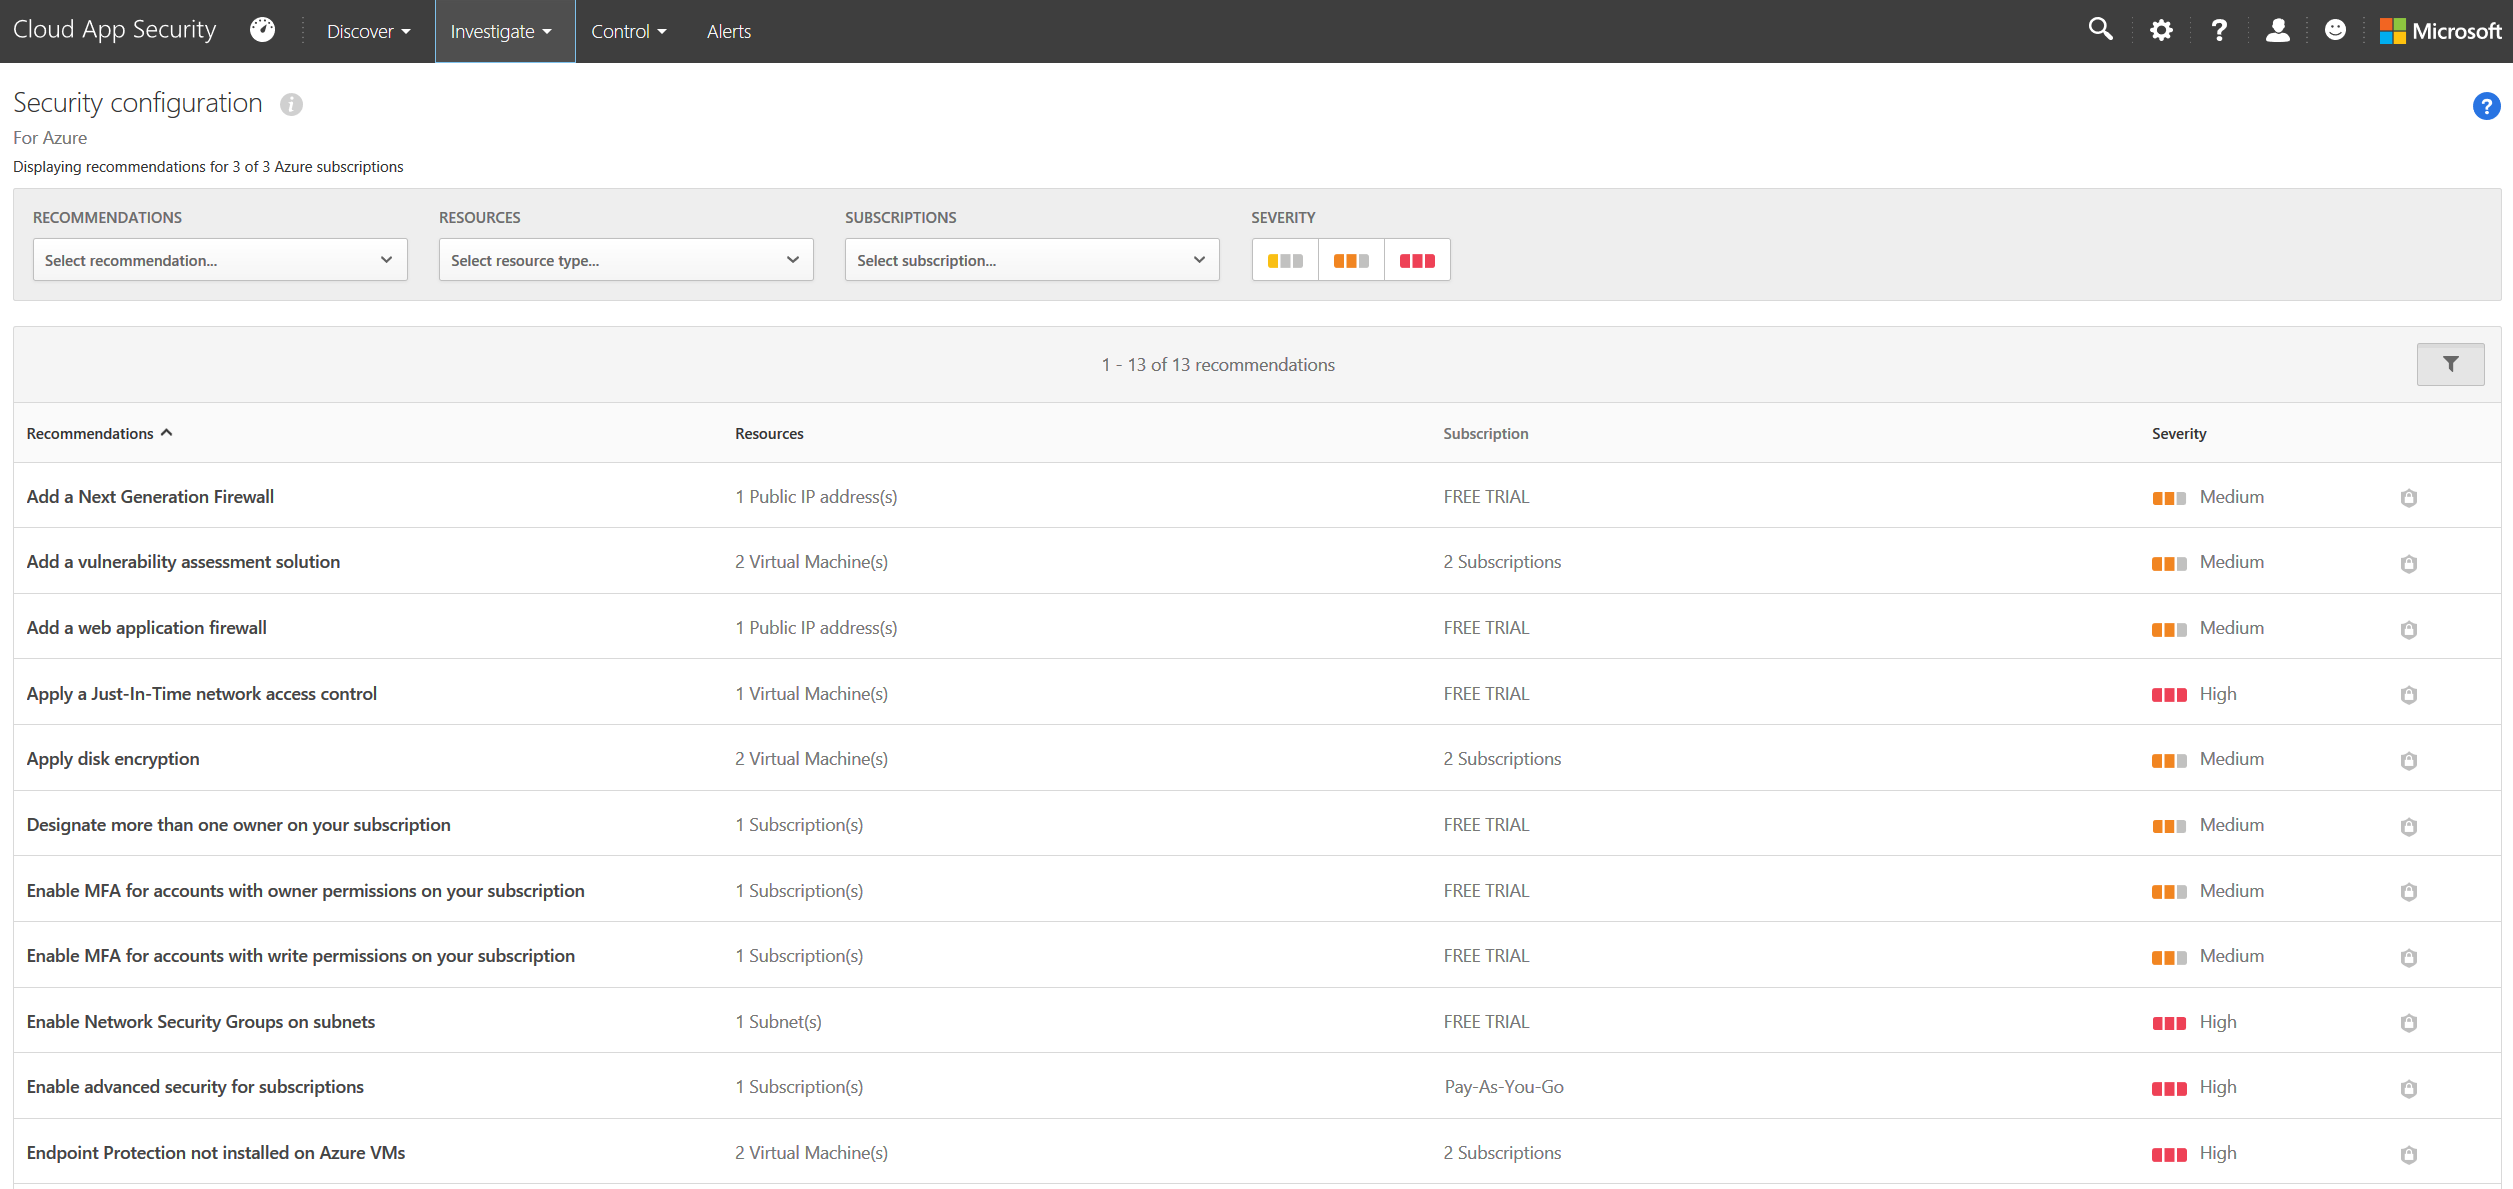
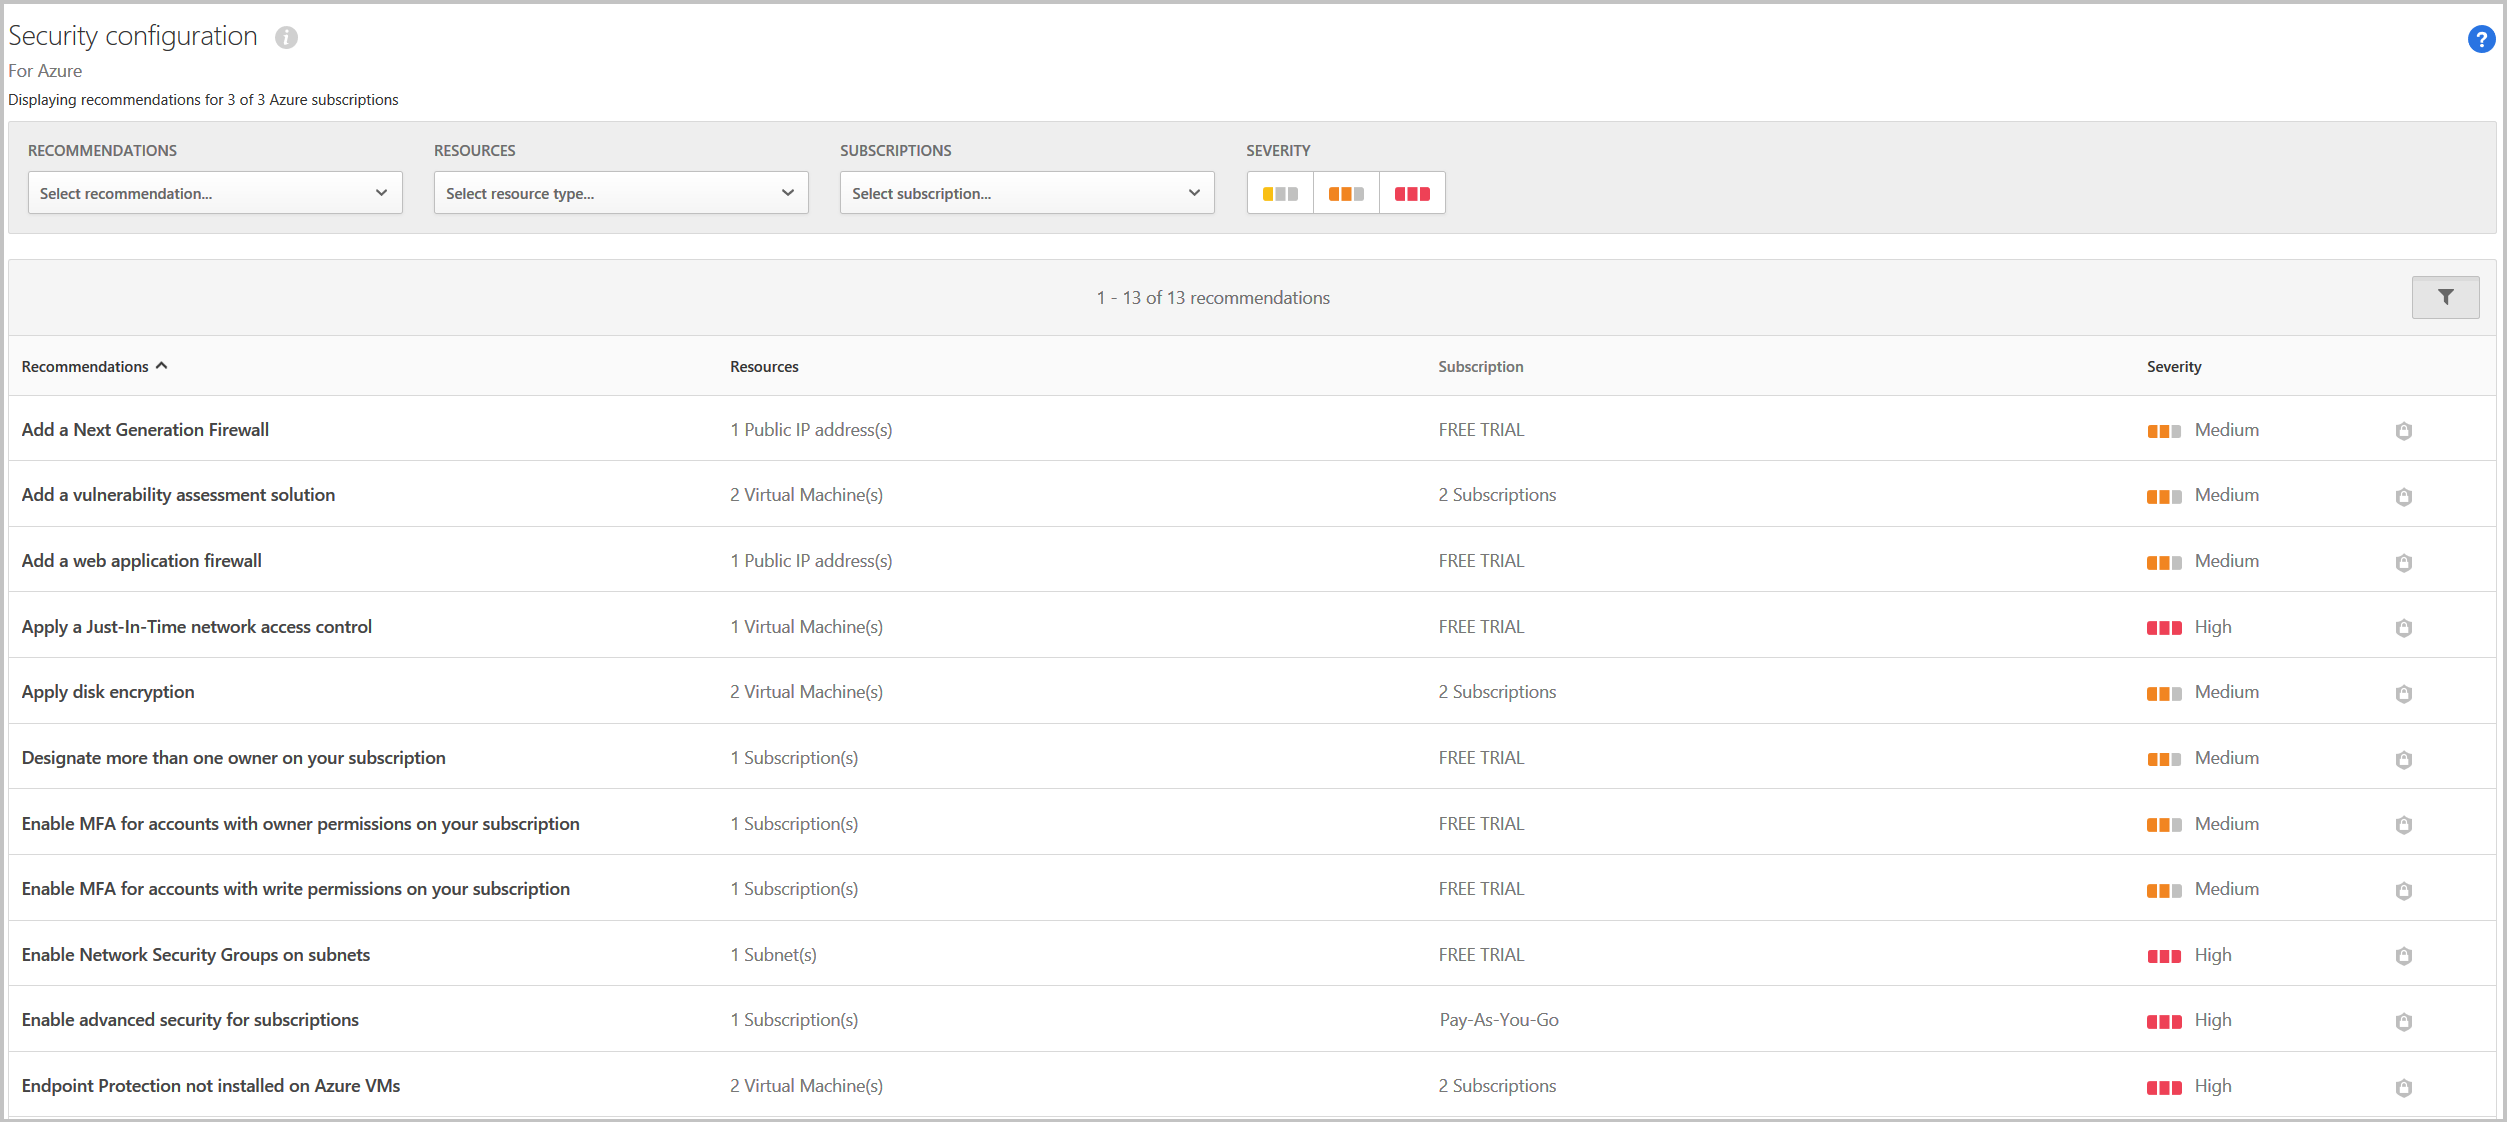
Edit screenshots and text due to UX change

diff --git a/CloudAppSecurityDocs/security-config.md b/CloudAppSecurityDocs/security-config.md
@@ -7,7 +7,7 @@ keywords:
 author: rkarlin
 ms.author: rkarlin
 manager: mbaldwin
-ms.date: 7/1/2018
+ms.date: 11/30/2018
 ms.topic: conceptual
 ms.prod:
 ms.service: cloud-app-security
@@ -26,48 +26,43 @@ ms.suite: ems
 #ms.custom:
 
 ---
-
+# Security configuration
 
 *Applies to: Microsoft Cloud App Security*
 
+Microsoft Cloud App Security provides you with a security configuration assessment of your Azure environment. The assessment, powered by Azure Security Center, provides recommendations for missing configuration and security control.
 
-# Security configuration
+## Enable security configuration recommendations
 
-Microsoft Cloud App Security provides you with a security configuration assessment of your Azure environment, and provides recommendations for missing configuration and security control, powered by Azure Security Center. 
+To use this feature, you need the appropriate permissions in Azure AD and in the Azure portal. By default, the Azure AD Global administrator role doesn't provide you with access to Azure subscriptions. Elevate your permissions to grant access to Azure subscriptions for yourself and other users.
 
-In order to use this feature you have to have the appropriate permissions in Azure AD and in the Azure portal.
- 
-By default, the Azure AD Global administrator role doesn't provide you with access to Azure subscriptions. Because of this, you need to elevate your permissions so that you can grant yourself and other users access to Azure subscriptions. 
-
-> [!NOTE]
+> [!IMPORTANT]
 > We recommend that you disable the elevation after you complete the following process.
 
 To enable security configuration recommendations in Microsoft Cloud App Security:
 
-1. <a href="https://docs.microsoft.com/azure/security-center/security-center-management-groups" target="_blank">Gain tenant-wide visibility for Azure Security Center</a>. This process includes granting yourself, and all the other Microsoft Cloud App Security administrators to whom you want to grant access to this page, the role of Reader for all subscriptions and assigning the role on the root management group in Azure Security Center and elevating your Azure AD Global administrator to grant access to Azure subscriptions. 
-
-   > [!NOTE]
-   > The article describes the process for becoming a Security administrator. For this integration to work, the minimum permissions you need are Reader.
+1. <a href="https://docs.microsoft.com/azure/security-center/security-center-management-groups" target="_blank">Gain tenant-wide visibility for Azure Security Center</a>. This process includes:
+   - Granting yourself and all the other Microsoft Cloud App Security administrators you want to grant access to this page, the role of Reader for all subscriptions.
+   - Assigning the role on the root management group in Azure Security Center
+   - Elevating your Azure AD Global administrator to grant access to Azure subscriptions.
+   - The article describes the process for becoming a Security administrator. For this integration to work, the minimum permissions you need are **Reader**.
 
 2. Make sure to open <a href="https://ms.portal.azure.com/#blade/Microsoft_Azure_Security/SecurityMenuBlade/0" target="_blank">Azure Security Center</a> for the changes to take effect.
 
 3. In the Microsoft Cloud App Security portal, go to **Investigate** and then **Security configuration**. 
+    - Microsoft Cloud App Security provides recommendations for only the top 50 subscriptions. 
+    - It might take up to 15 minutes before your changes take effect.
 
-   ![security configuration menu](./media/security-configuration-menu.png)
+     ![security configuration menu](./media/security-configuration-menu.png)
 
-   > [!NOTE]
-   > Microsoft Cloud App Security provides recommendations for only the top 50 subscriptions.
-   > It might take up to 15 minutes before your changes take effect.
+4. You can filter the recommendations by type, by resource, and by subscription. Additionally, you can click on the security configuration icon ![ASC icon](./media/asc-icon.png) to open the recommendation in Azure Security Center for more information and to deep dive into the recommendation. 
 
-5. You can filter the recommendations by type, by resource and by subscription. In addition, you can click on the security configuration icon ![ASC icon](./media/asc-icon.png) to open the recommendation in Azure Security Center for more information and to deep dive into the recommendation. <br></br><br></br>For information about how to implement security recommendations, see [Managing security recommendations in Azure Security Center](https://docs.microsoft.com/azure/security-center/security-center-recommendations).
+For information about how to implement security recommendations, see [Managing security recommendations in Azure Security Center](https://docs.microsoft.com/azure/security-center/security-center-recommendations).
 
- 
    ![security configuration](./media/security-configuration1.png)
 
- 
-
-## See Also  
-[Control cloud apps with policies](control-cloud-apps-with-policies.md)   
+## Next steps 
+[Control cloud apps with policies](control-cloud-apps-with-policies.md)
 
 [Premier customers can also choose Cloud App Security directly from the Premier Portal.](https://premier.microsoft.com/)  
   
